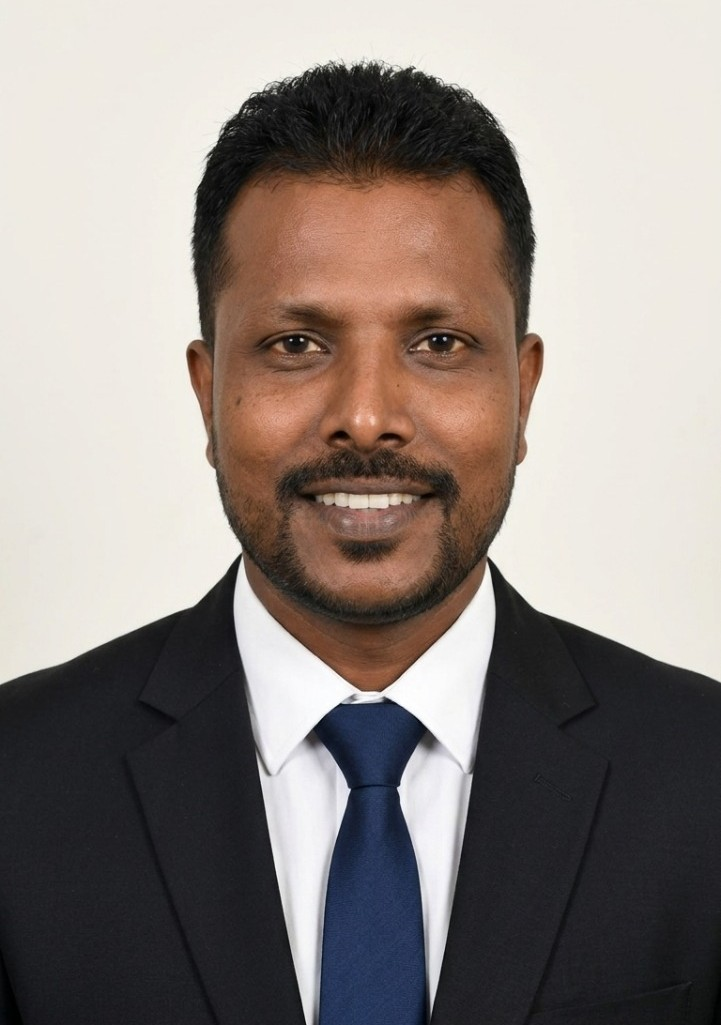
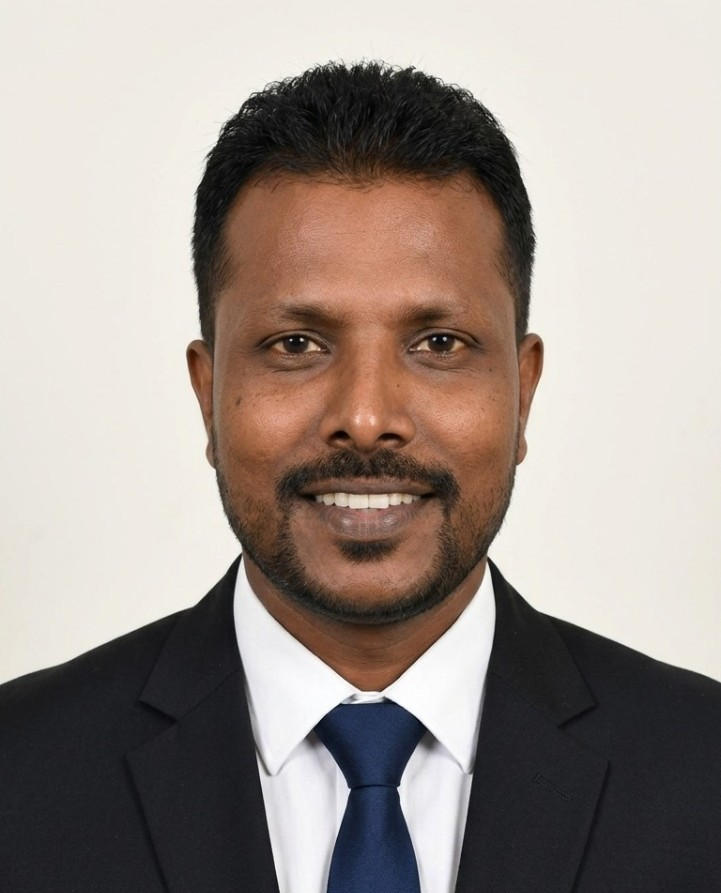
style: fix current owner image cropping in about page

Changed region(s): [[0.0, 0.0605, 1.0, 1.0], [0.9764, 0.9373, 1.0, 1.0], [0.0, 0.9373, 0.0305, 1.0]]

diff --git a/frontend/src/app/about/ClientPage.tsx b/frontend/src/app/about/ClientPage.tsx
@@ -129,7 +129,7 @@ export default function AboutPage() {
                   alt="Mr. J.V. Udesh - Managing Director"
                   fill
                   sizes="256px"
-                  className="object-cover object-[center_30%] transition-transform duration-500 group-hover:scale-105"
+                  className="object-cover object-top transition-transform duration-500 group-hover:scale-105"
                 />
               </div>
               <h3 className="font-playfair text-2xl font-bold text-gray-900 mb-1 uppercase tracking-wide">Managing Director</h3>
